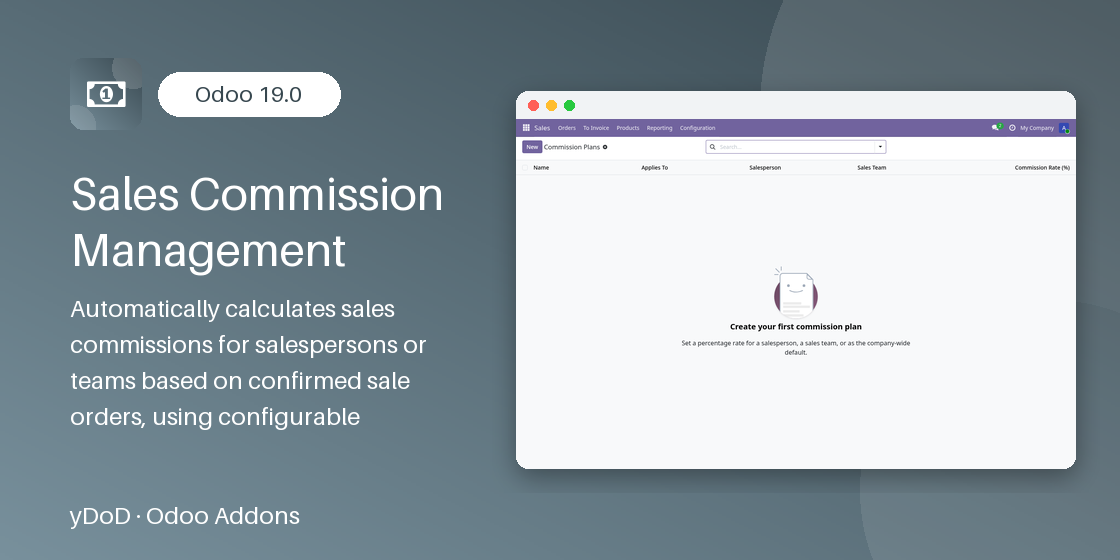
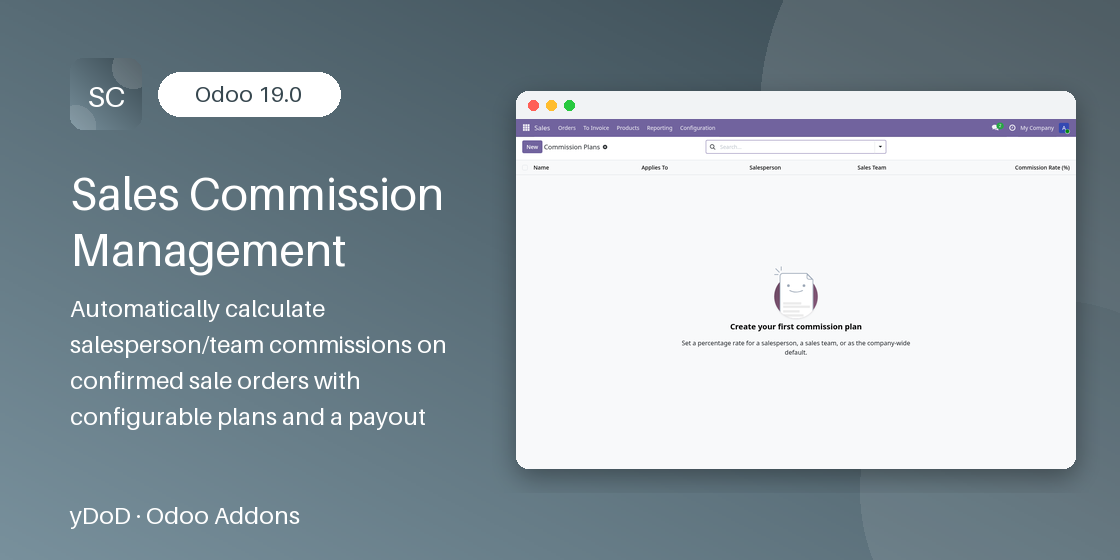
Store visuals: animated demo as the Odoo Apps cover

diff --git a/ydod_sale_commission/static/description/index.html b/ydod_sale_commission/static/description/index.html
@@ -111,17 +111,28 @@
 
 </section>
 <!-- oaa:showcase:start -->
-<section style="padding:40px 16px;text-align:center">
-  <h2 style="font-size:30px;font-weight:700;margin-bottom:24px">See it in action</h2>
-  <img src="demo.gif" alt="Sales Commission Management demo" style="width:100%;max-width:960px;border-radius:12px;box-shadow:0 10px 30px rgba(0,0,0,.18)"/>
-    <div style="margin:28px auto;max-width:1100px">
-      <img src="screenshot_1.png" alt="Commission Plans" style="width:100%;border-radius:10px;box-shadow:0 6px 24px rgba(0,0,0,.15)"/>
-      <p style="margin-top:10px;color:#6c757d;font-size:15px">Commission Plans</p>
+<section style="padding:56px 16px;background:linear-gradient(180deg,#37474F14 0%,#ffffff 70%)">
+  <div style="max-width:1100px;margin:0 auto;text-align:center">
+    <span style="display:inline-block;padding:6px 16px;border-radius:999px;background:#37474F;color:#fff;font-weight:700;font-size:13px;letter-spacing:.08em">SEE IT IN ACTION</span>
+    <h2 style="font-size:32px;font-weight:800;color:#1f2937;margin:16px 0 28px">Sales Commission Management at work</h2>
+    <div style="max-width:1000px;margin:0 auto;border-radius:20px;overflow:hidden;box-shadow:0 22px 60px rgba(15,23,42,.22)">
+      <img src="demo.gif" alt="Sales Commission Management animated demo" style="width:100%;display:block"/>
     </div>
-    <div style="margin:28px auto;max-width:1100px">
-      <img src="screenshot_2.png" alt="Commissions" style="width:100%;border-radius:10px;box-shadow:0 6px 24px rgba(0,0,0,.15)"/>
-      <p style="margin-top:10px;color:#6c757d;font-size:15px">Commissions</p>
+    <div class="row" style="margin-top:32px">
+      <div class="col-12" style="padding:12px">
+        <div style="height:100%;background:#fff;border:1px solid #eef0f4;border-radius:16px;overflow:hidden;box-shadow:0 10px 30px rgba(15,23,42,.10)">
+          <img src="screenshot_1.png" alt="Commission Plans" style="width:100%;display:block"/>
+          <div style="padding:14px 18px;font-size:15px;color:#334155;text-align:left"><span style="display:inline-block;width:26px;height:26px;line-height:26px;border-radius:13px;background:#37474F;color:#fff;text-align:center;font-weight:700;font-size:13px;margin-right:10px">1</span>Commission Plans</div>
+        </div>
+      </div>
+      <div class="col-md-6" style="padding:12px">
+        <div style="height:100%;background:#fff;border:1px solid #eef0f4;border-radius:16px;overflow:hidden;box-shadow:0 10px 30px rgba(15,23,42,.10)">
+          <img src="screenshot_2.png" alt="Commissions" style="width:100%;display:block"/>
+          <div style="padding:14px 18px;font-size:15px;color:#334155;text-align:left"><span style="display:inline-block;width:26px;height:26px;line-height:26px;border-radius:13px;background:#37474F;color:#fff;text-align:center;font-weight:700;font-size:13px;margin-right:10px">2</span>Commissions</div>
+        </div>
+      </div>
     </div>
+  </div>
 </section>
 <!-- oaa:showcase:end -->
 

diff --git a/ydod_sale_commission/__manifest__.py b/ydod_sale_commission/__manifest__.py
@@ -35,7 +35,8 @@
         'views/sale_order_views.xml',
         'views/sale_commission_menus.xml'],
     'demo': ['demo/sale_commission_demo.xml'],
-    'images': [   'static/description/banner.png',
+    'images': [   'static/description/demo.gif',
+        'static/description/banner.png',
         'static/description/screenshot_1.png',
         'static/description/screenshot_2.png'],
     'installable': True,
